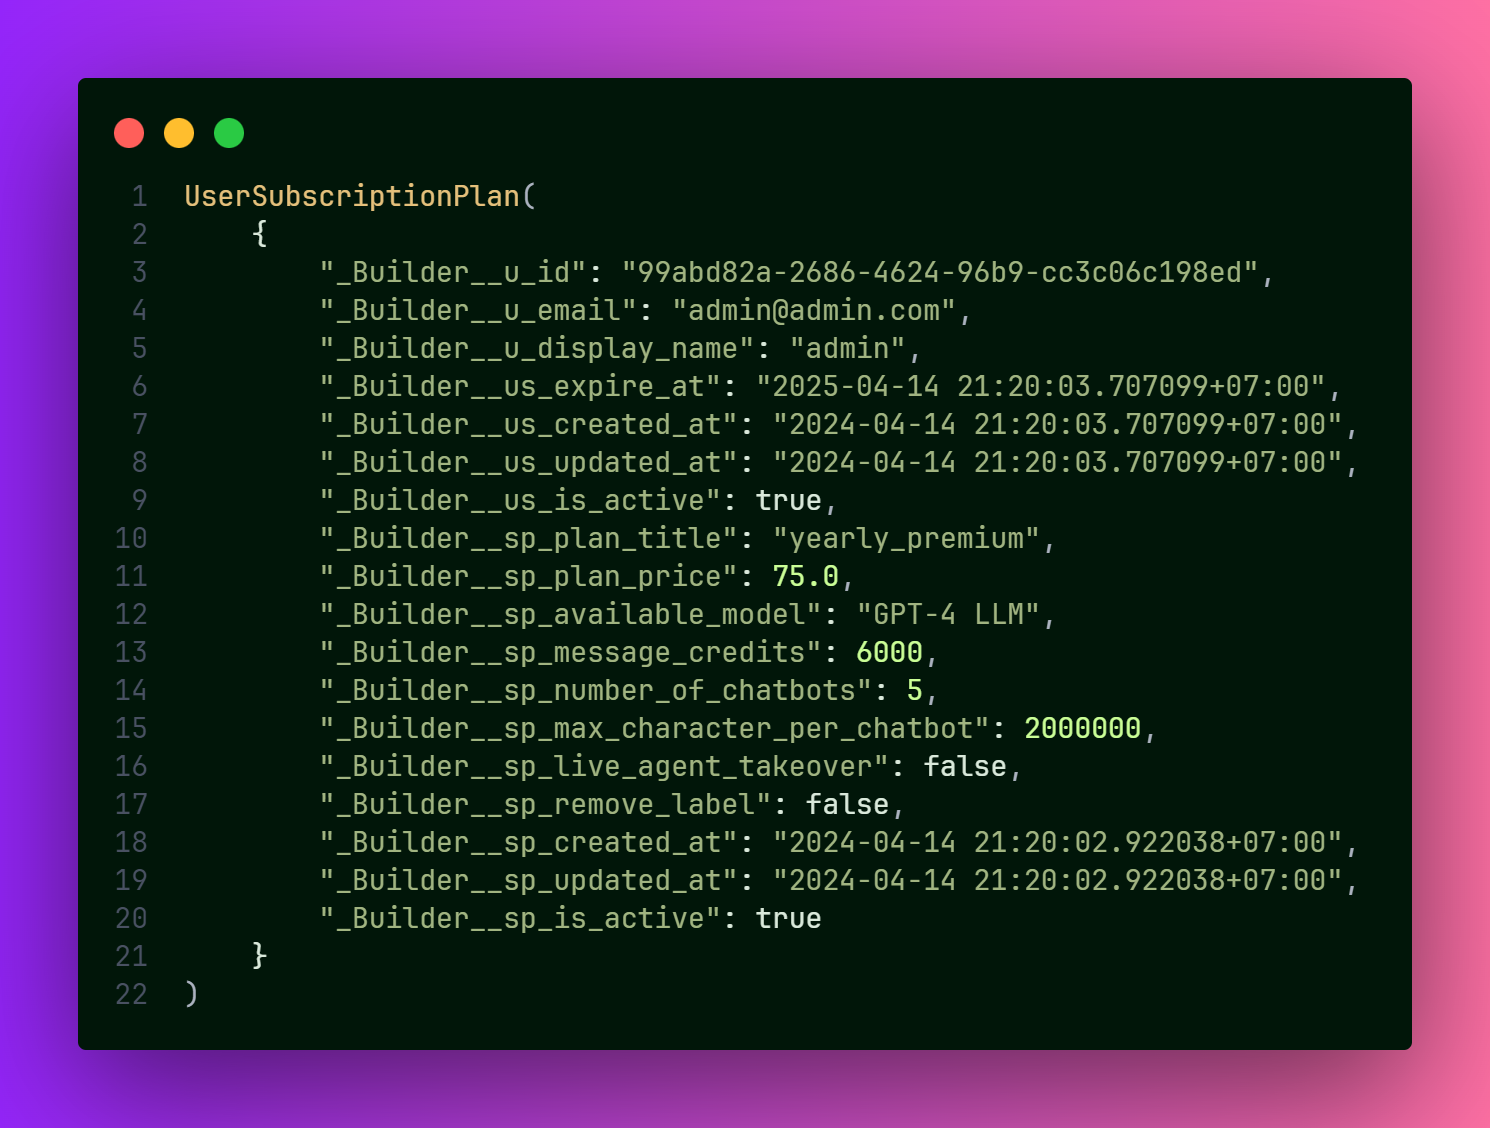
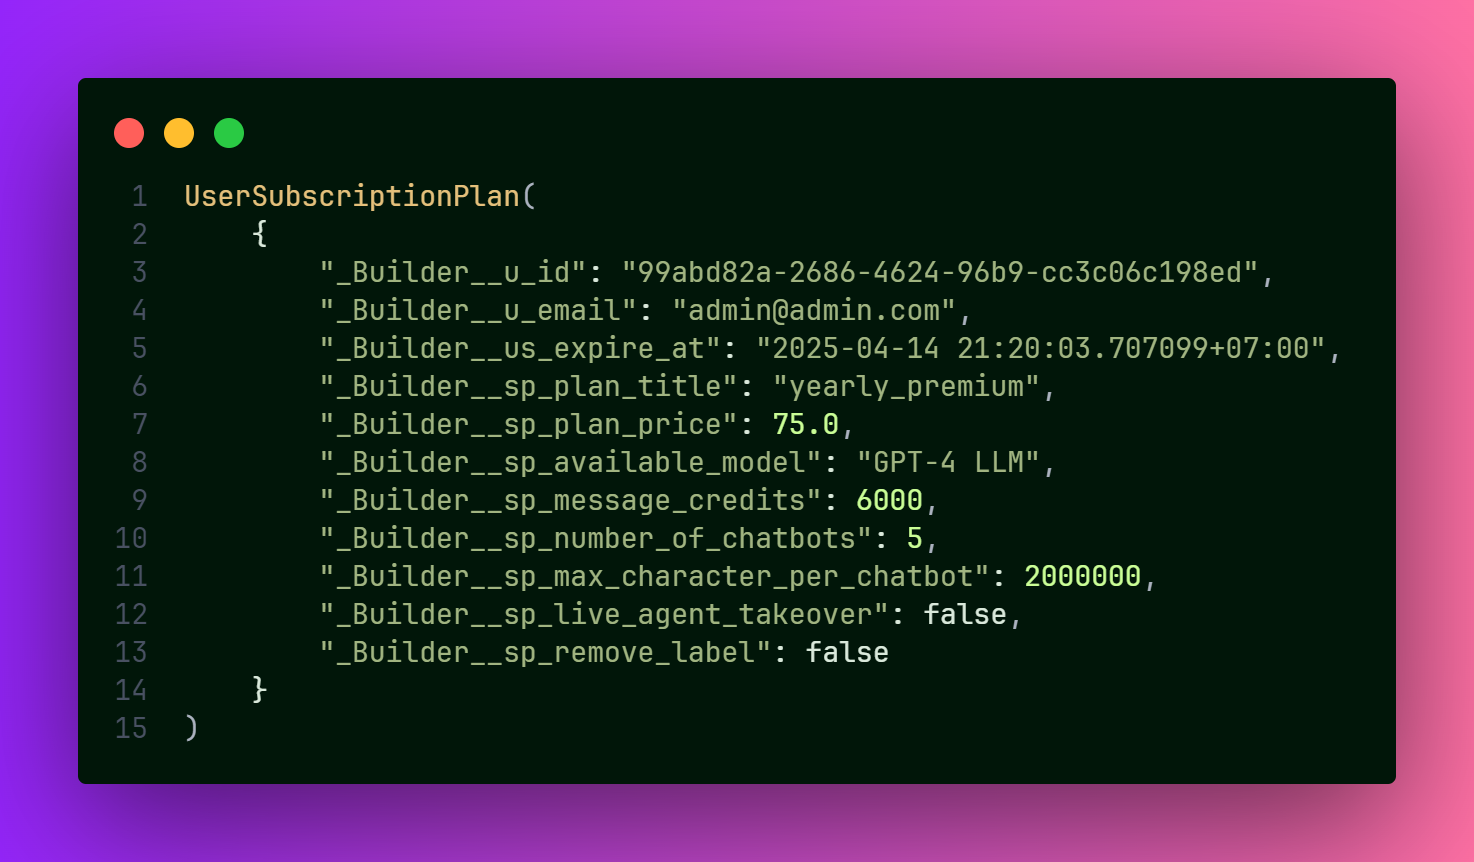
crud user subscription plan 🛠

diff --git a/app/crud/crud_user_subscription_plan.py b/app/crud/crud_user_subscription_plan.py
@@ -67,12 +67,7 @@ class CRUDUserSubscriptionPlan:
                         .Builder() \
                             .with_u_id(result_dict[usp.U_ID]) \
                             .with_u_email(result_dict[usp.U_EMAIL]) \
-                            .with_u_display_name(result_dict[usp.U_DISPLAY_NAME]) \
                             .with_us_expire_at(result_dict[usp.US_EXPIRE_AT]) \
-                            .with_us_created_at(result_dict[usp.US_CREATED_AT]) \
-                            .with_us_updated_at(result_dict[usp.US_UPDATED_AT]) \
-                            .with_us_is_active(result_dict[usp.US_IS_ACTIVE]) \
-                            .with_us_deleted_at(result_dict[usp.US_DELETED_AT]) \
                             .with_sp_plan_title(result_dict[usp.SP_PLAN_TITLE]) \
                             .with_sp_plan_price(result_dict[usp.SP_PLAN_PRICE]) \
                             .with_sp_available_model(result_dict[usp.SP_AVAILABLE_MODEL]) \
@@ -81,10 +76,6 @@ class CRUDUserSubscriptionPlan:
                             .with_sp_max_character_per_chatbot(result_dict[usp.SP_MAX_CHARACTER_PER_CHATBOT]) \
                             .with_sp_live_agent_takeover(result_dict[usp.SP_LIVE_AGENT_TAKEOVER]) \
                             .with_sp_remove_label(result_dict[usp.SP_REMOVE_LABEL]) \
-                            .with_sp_created_at(result_dict[usp.SP_CREATED_AT]) \
-                            .with_sp_updated_at(result_dict[usp.SP_UPDATED_AT]) \
-                            .with_sp_is_active(result_dict[usp.SP_IS_ACTIVE]) \
-                            .with_sp_deleted_at(result_dict[usp.SP_DELETED_AT]) \
                         .build()
         else:
             return None

diff --git a/dd.py b/dd.py
@@ -1,0 +1,30 @@
+from IPython.display import display
+from sqlalchemy.orm import Session
+
+from app.crud.crud_user_subscription_plan import crud_user_subscription_plan
+from app.db.session import SessionLocal
+from app.schemas.user_subscription_plan import UserSubscriptionPlan
+
+db: Session = SessionLocal()
+
+res: UserSubscriptionPlan = crud_user_subscription_plan.get_user_subscription_plan(
+    db=db,
+    user_id='99abd82a-2686-4624-96b9-cc3c06c198ed'
+)
+
+display(res.__str__())
+UserSubscriptionPlan(
+    {
+        "_Builder__u_id": "99abd82a-2686-4624-96b9-cc3c06c198ed",
+        "_Builder__u_email": "admin@admin.com",
+        "_Builder__us_expire_at": "2025-04-14 21:20:03.707099+07:00",
+        "_Builder__sp_plan_title": "yearly_premium",
+        "_Builder__sp_plan_price": 75.0,
+        "_Builder__sp_available_model": "GPT-4 LLM",
+        "_Builder__sp_message_credits": 6000,
+        "_Builder__sp_number_of_chatbots": 5,
+        "_Builder__sp_max_character_per_chatbot": 2000000,
+        "_Builder__sp_live_agent_takeover": false,
+        "_Builder__sp_remove_label": false
+    }
+)
